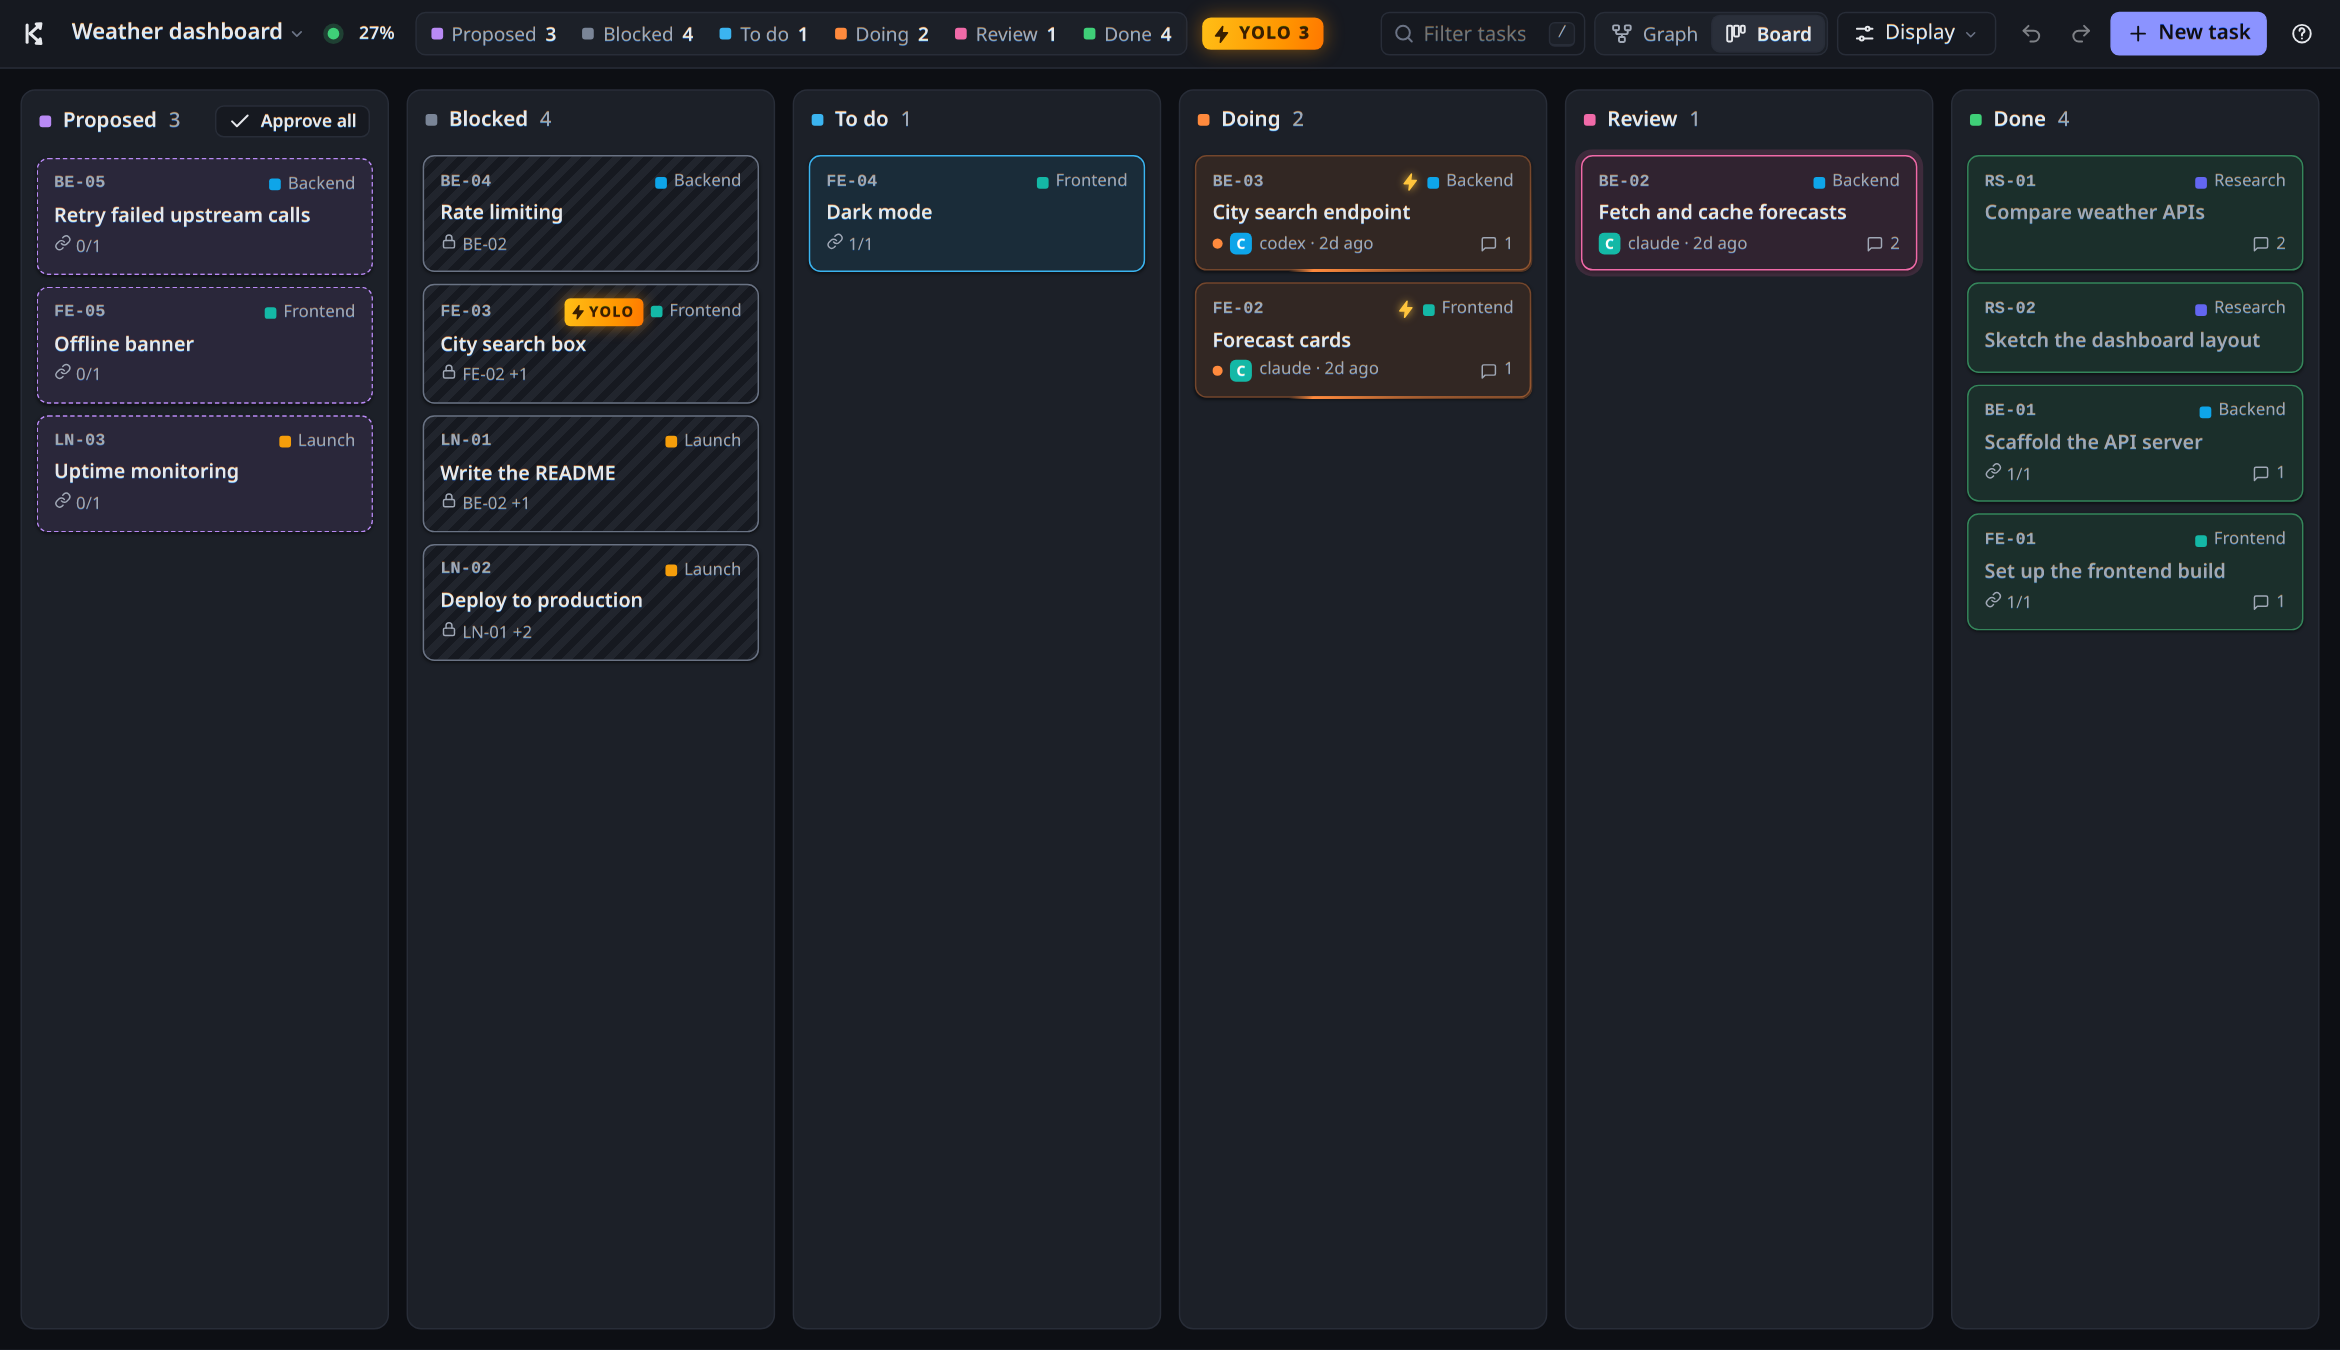
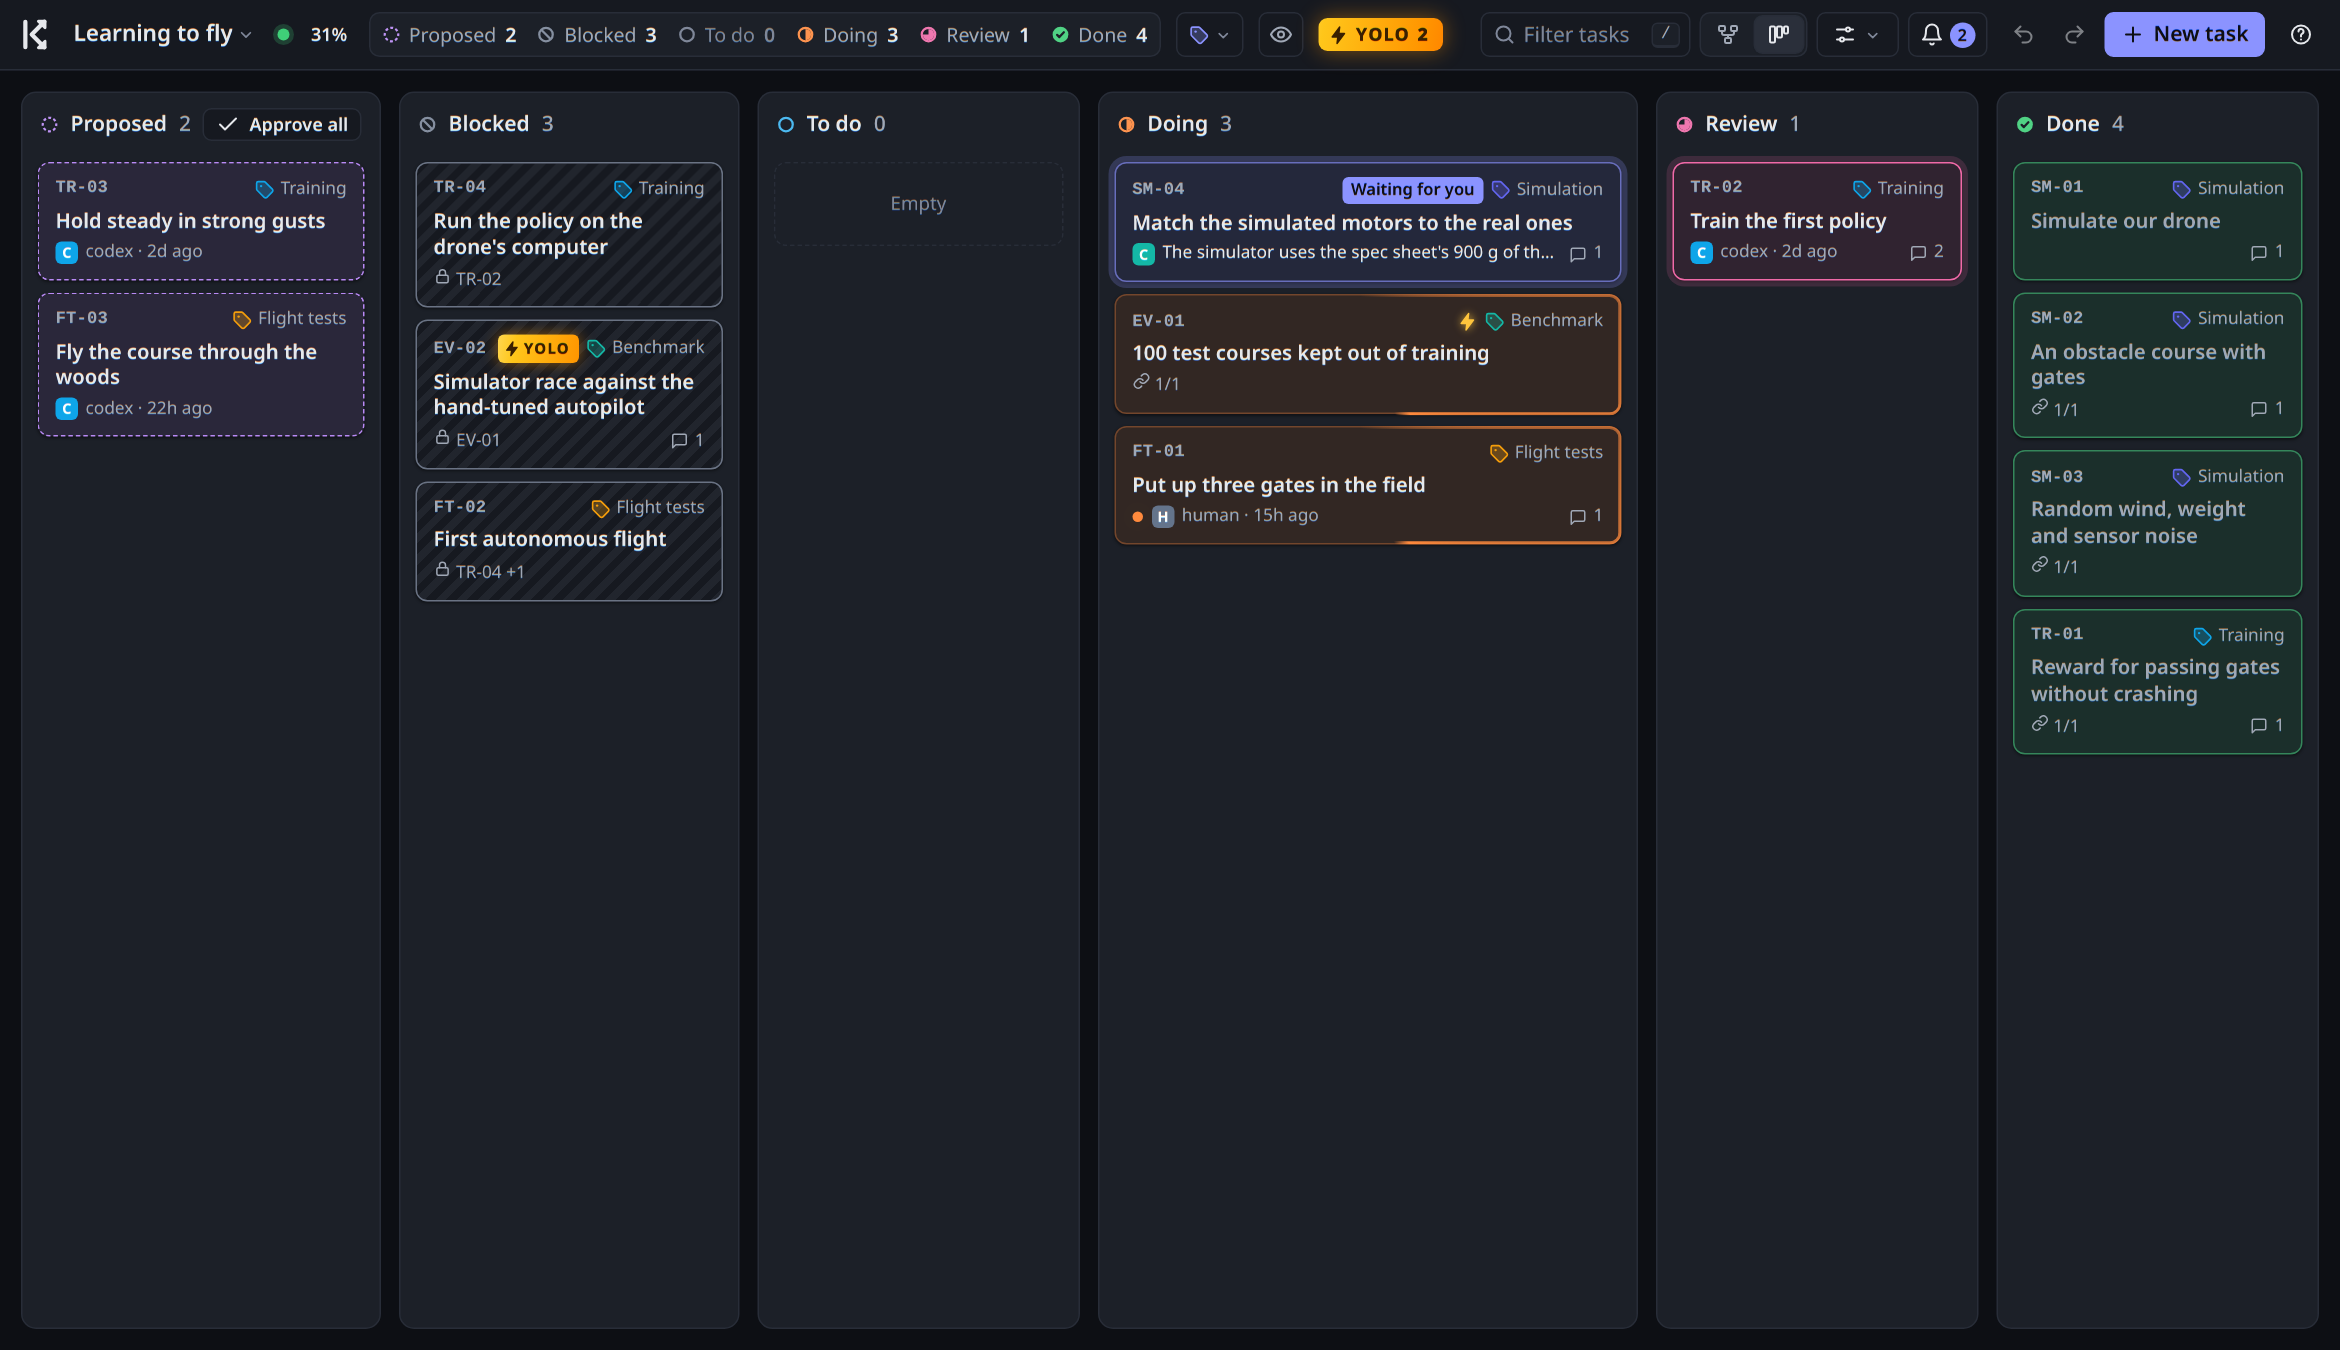
README: show a drone learning to fly in place of the weather app, with the board in examples/drone.json and the skill's examples to match

Changed region(s): [[0.0312, 0.0, 0.9983, 0.5289], [0.0, 0.0622, 0.4056, 0.4978], [0.8735, 0.0, 0.9671, 0.0311]]

diff --git a/tests/test_kanvas.py b/tests/test_kanvas.py
@@ -132,6 +132,14 @@ class FormatTests(unittest.TestCase):
         text = self.sample()
         self.assertEqual(kanvas.dumps(kanvas.parse_board(text)), text)
 
+    def test_the_example_boards_are_valid_and_canonical(self):
+        for name in sorted(os.listdir(os.path.join(ROOT, "examples"))):
+            with self.subTest(name), open(os.path.join(ROOT, "examples", name), encoding="utf-8") as f:
+                text = f.read()
+                board = kanvas.parse_board(text)
+                self.assertEqual(kanvas.dumps(board), text)
+                self.assertEqual(kanvas.problems(board), ([], []))
+
     def test_short_string_arrays_stay_on_one_line(self):
         board = kanvas.new_board("t")
         board["tasks"] = [task("A-01"), task("A-02", deps=["A-01"]), task("A-03", deps=["A-01", "A-02"])]

diff --git a/README.md b/README.md
@@ -9,7 +9,7 @@ A task board you share with your AI coding agents. Agents plan and report throug
 
 One JSON file, one Python script, one HTML page. No accounts, no build step, no dependencies.
 
-![The dependency graph of a sample project](img/graph.png)
+![The dependency graph of a project that trains a drone to fly itself: simulation, training, evaluation and flight tests](img/graph.png)
 
 ## Why
 
@@ -143,7 +143,7 @@ Agents may propose tasks and groups, start ready tasks, finish or pause tasks in
 - **Right-click menus.** On a card: state actions, a new task that depends on it or blocks it, adding and removing dependencies, copying the ID, deleting. On an arrow (left or right click): the two tasks it connects are highlighted and shown in the menu; click either one to open it, or remove the connection. On empty space: a new task in that group, a new group, or deleting that group (its tasks stay without a group unless you choose to delete them too).
 - **Undo and redo.** Ctrl+Z undoes your last change in the browser, Ctrl+Shift+Z or Ctrl+Y redoes it, and the arrows next to New task do the same. On a Mac, these and the page's other Ctrl shortcuts use ⌘, as the page shows. The toast that confirms a change has an Undo button for that change. Changes agents made in the meantime are kept: an undo only touches what your change touched, and refuses if an agent has changed that since. Inside a text field, Ctrl+Z undoes typing as usual.
 - **YOLO.** "YOLO up to here…" on a card (right-click menu or task panel) hands that task and everything it depends on to the agents: the tasks they finish on the way are done without review. The YOLO task itself comes back to you for review, so a YOLO run ends with one review of the result, and YOLO stops applying once that task is in review. YOLO on a task further along takes over the chain: the YOLO marks inside it go, so only the last task comes back for review. Turning it on approves the chain's current proposals and marks the other tasks waiting for review as done. A proposal an agent links into the chain later waits for your approval; one you link yourself is approved with the link. The task carries a YOLO tag and the tasks it covers a lightning icon; the same menu turns it off.
-- **Everything else.** Filter by state, search (press `/`), hide finished work, groups with their own ID prefixes (from the menu on the board name), light, dark or system theme, keyboard shortcuts (press `?`), arrow keys to move from card to card and Enter to move into its panel (Tab goes round the panel, Escape comes back out), and links: `#BE-02` in the URL opens that task.
+- **Everything else.** Filter by state, search (press `/`), hide finished work, groups with their own ID prefixes (from the menu on the board name), light, dark or system theme, keyboard shortcuts (press `?`), arrow keys to move from card to card and Enter to move into its panel (Tab goes round the panel, Escape comes back out), and links: `#TR-02` in the URL opens that task.
 
 ![The board view in dark mode](img/board-dark.png)
 
@@ -246,26 +246,26 @@ Writes take a short lock and replace the file atomically, so several agents and 
 ```json
 {
   "kanvas": 1,
-  "title": "Weather dashboard",
+  "title": "Learning to fly",
   "groups": [
     {
-      "id": "BE",
-      "name": "Backend"
+      "id": "TR",
+      "name": "Training"
     }
   ],
   "tasks": [
     {
-      "id": "BE-02",
-      "title": "Fetch and cache forecasts",
+      "id": "TR-02",
+      "title": "Train the first policy",
       "state": "review",
-      "group": "BE",
-      "deps": ["BE-01"],
-      "desc": "`GET /forecast` proxies Open-Meteo.",
+      "group": "TR",
+      "deps": ["TR-01", "SM-03"],
+      "desc": "- [x] Passes every gate on most random courses\n- [x] Copes with wind up to 8 m/s",
       "notes": [
         {
-          "at": "2026-10-19T11:05:00Z",
-          "by": "claude",
-          "text": "Done: responses cached for 10 minutes; 23 tests pass."
+          "at": "2026-10-25T08:20:00Z",
+          "by": "codex",
+          "text": "The policy flies the course on its own: 92 of 100 random courses through every gate."
         }
       ]
     }
@@ -273,7 +273,7 @@ Writes take a short lock and replace the file atomically, so several agents and 
 }
 ```
 
-States are `proposed`, `todo`, `doing`, `review` and `done`; blocked is computed. `"yolo": true` on a task puts it and everything it depends on under YOLO. `"at"` and `"by"` on a task say when it was created and by whom: the agent that proposed it, or `"human"` for tasks made in the browser. A note edited in the browser gets an `"edited"` time next to its original `"at"`. A new task takes the highest number in its group plus one, so when the last task of a group is deleted or rejected, the next new task gets its ID. The CLI and the browser write the same canonical formatting, so diffs show only real changes. Unknown fields are preserved. See [`examples/sample.json`](examples/sample.json) for a complete board.
+States are `proposed`, `todo`, `doing`, `review` and `done`; blocked is computed. `"yolo": true` on a task puts it and everything it depends on under YOLO. `"at"` and `"by"` on a task say when it was created and by whom: the agent that proposed it, or `"human"` for tasks made in the browser. A note edited in the browser gets an `"edited"` time next to its original `"at"`. A new task takes the highest number in its group plus one, so when the last task of a group is deleted or rejected, the next new task gets its ID. The CLI and the browser write the same canonical formatting, so diffs show only real changes. Unknown fields are preserved. See [`examples/drone.json`](examples/drone.json) for a complete board.
 
 ## Migrating from Kanvas 0.x (Obsidian)
 

diff --git a/skill/SKILL.md b/skill/SKILL.md
@@ -64,10 +64,10 @@ When asked to plan, get to know the work first: what is already there (code, doc
 ```bash
 python .agents/skills/kanvas/kanvas.py batch <<'EOF'
 {
-  "groups": ["Research", "Backend"],
+  "groups": ["Training", "Flight tests"],
   "tasks": [
-    {"title": "Compare weather APIs", "group": "Research", "desc": "Free tier, hourly data, caching terms"},
-    {"title": "Fetch forecasts", "group": "Backend", "deps": ["Compare weather APIs"]}
+    {"title": "Train the first policy", "group": "Training", "desc": "Flies random obstacle courses in the simulator through every gate, in wind up to 8 m/s"},
+    {"title": "First autonomous flight", "group": "Flight tests", "deps": ["Train the first policy"]}
   ]
 }
 EOF
@@ -118,10 +118,10 @@ Notes and proposals record your name, so the human can tell who did what. Sign w
 Commands that take text also accept `--stdin` and `--file PATH`, which read UTF-8 on every platform. They give the plan for `start`, the summary for `finish`, the note for `pause` and `note`, the question for `ask`, and the description for `propose` and `edit`; the `-m` note of `edit` is an argument only. Use a heredoc for multi-line summaries:
 
 ```bash
-python .agents/skills/kanvas/kanvas.py finish DV-03 --stdin <<'EOF'
-Failed forecast requests now retry three times, then show the cached forecast marked as stale.
-- To try it: go offline and reload; the forecast stays, with a "stale" label
-- 6 new tests; the suite passes
+python .agents/skills/kanvas/kanvas.py finish TR-02 --stdin <<'EOF'
+The policy flies the course on its own: 92 of 100 random courses through every gate, 3 crashes, 5 too slow.
+- To see it: `make replay` plays ten flights, the three crashes among them
+- All three crashes happen in gusts above 7 m/s: try it on the real drone in calm weather, or train on stronger wind first?
 EOF
 ```
 

diff --git a/AGENTS.md b/AGENTS.md
@@ -10,6 +10,7 @@ Kanvas is a task board shared by humans and AI agents. This file is for agents a
 | `kanvas.html` | The whole browser board in one file: CSS, markup and JavaScript, no build step |
 | `skill/SKILL.md` | Agent skill that `init` installs into projects |
 | `examples/sample.json` | Demo board, also used by the tests |
+| `examples/drone.json` | The board in the README, its screenshots and the skill's examples |
 | `tests/test_kanvas.py` | Test suite (`unittest`) |
 | `tests/layout_stats.py`, `tests/fixtures/` | Graph clutter measurements and the boards they run on |
 | `pyproject.toml` | The `kanvas-board` package, which installs the `kanvas` command. Its version comes from `VERSION` in `kanvas.py`, and the `VERSION` file must match. hatchling and hatch-fancy-pypi-readme, which points the README's relative links at GitHub for PyPI, are needed only to build it |
